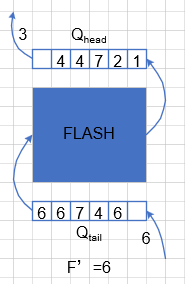
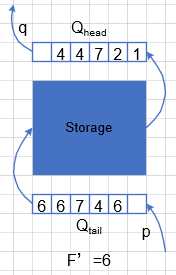
update doc

Changed region(s): [[0.0, 0.0, 1.0, 1.0], [0.3409, 0.4364, 0.6534, 0.4945]]

diff --git a/doc/lsmtree.md b/doc/lsmtree.md
@@ -46,7 +46,7 @@ major contribution：
 
 ## 内存：二级缓存替换MemTable，多Immutable MemTable
 
-![MemoryStructrue](D:/Program/LSMTREE/doc/pic/memorystructure.png)
+![MemoryStructrue](/pic/memorystructure.png)
 
 【图2：内存存储结构】**【图待修改】**
 
@@ -76,34 +76,42 @@ $$
 
 ## 外存：数据上浮，替换Filter
 
-### 挑战
+### 需要解决的问题
 
-1. 哪些数据要上浮？
+1. 哪些数据需要上浮？
 2. 数据如何上浮？
 
 ### 哪些数据要上浮？
 
-在基于LSM-tree结构的数据结构中，数据从低层到高层是按照新鲜度依次递减的。从访问时间来看，相比于低层的SSTable，查找高层的SSTable会消耗更多的时间，所以我们认为数据还应该从低层到高层同时满足访问频率依次递增，满足此条件我们才认为此时的LSM-tree是平衡的。当高层的SSTable的访问频率越来越高时，我们可以认为当前的树处于一个失衡的状态，需要调整树以达到平衡状态。
+在LSM-tree中，数据从高层到低层是按照新鲜度依次递减的。从访问时间来看，相比于高层的SSTable，查找低层的SSTable会消耗更多的时间，所以我们认为数据分布不仅仅需要考虑数据的新鲜度，同时还需要考虑数据的访问频率。当低层的某个SSTable的访问频率越来越高时，这个SSTable应该通过适当的调整，上浮到高层。
 
-我们对每个文件维护最近$F$次访问中的访问次数$f$，第$i$层的第$j$个SSTable的最近$F$次访问中的访问次数为$f_{i,j}$。我们认为若满足
+为了解决这一问题，我们对每个SSTable文件维护最近$F$次访问中的访问次数$f$，第$i$层的第$j$个SSTable的最近$F$次访问中的访问次数为$f_{i,j}$，若满足
 $$
 f_{i,j}\ge min(f_{i-1,k})  \times \beta\quad (2)
 $$
-其中$f_{i-1,k}$为第$i-1$层的第$k$个SSTable的最近$F$次访问中的访问次数，$\beta$为参数，那么认为这个文件需要进行上浮操作。
+其中$f_{i-1,k}$为第$i-1$层的第$k$个SSTable的最近$F$次访问中的访问次数，$\beta$为常数，那么认为这个SSTable文件需要进行上浮操作。
 
-每次更新文件访问次数时，就检查当前访问的文件是否需要上浮。若需要上浮，则类似Compaction操作，进行后台操作。若已有文件正在进行上浮，则当前上浮的文件需要等待之前的文件上浮完成后，再进行上浮操作。
+每次更新文件访问次数时，就检查当前访问的文件是否需要上浮。为了避免频繁上浮，通过设定常数$\beta$来控制上浮的频率。若已有文件正在进行上浮，则当前上浮的文件需要等待之前的文件上浮完成后，再进行上浮操作。
 
 #### 维护每个文件最近访问次数
 
 对于每个文件都记录最近$F$次的访问次数$f$。
 
-对于较小的$F$，用一个FIFO队列来维护最近的$F$次访问的文件序号。当从队列中弹出一个文件序号$p$时，将对应文件序号的文件的访问次数减一；当加入一个文件序号$p$时，将对应文件序号的文件的访问次数加一。
+对于较小的$F$，用一个FIFO队列来维护最近的$F$次访问的文件序号。当从队列中弹出一个文件序号$q$时，将文件序号为$q$的文件的访问次数减一；当加入一个文件序号$p$时，将文件序号为$p$的文件的访问次数加一。
 
 ![filefrequency](./pic/filefrequency.png)
 
-【图3：较大$F$时，文件最近访问频率记录图】
+【图3：较大$F$时，文件最近访问频率记录图】**【图待修改】**
 
-对于较大的$F$，将最近的$F$次访问中间部分的文件序号存储在外存，仅仅在内存维护2个最大大小为$F^{'}$的FIFO队列，一个是存储最近的$F$次访问头部的文件序号的队列$Q_{head}$，另一个是存储最近的$F$次访问尾部的文件序号的队列$Q_{tail}$。当需要删除一个文件序号$p$时，从$Q_{head}$弹出这个文件序号，将对应文件序号的文件的访问次数减一；当需要添加一个文件序号$p$时，加入$Q_{tail}$，将对应文件序号的文件的访问次数加一。当$Q_{head}$为空时，将$Q_{tail}$写入外存，清空队列$Q_{tail}$；再从外存中读入前$F^{'}$个文件序号，依次加入$Q_{head}$。
+对于较大的$F$，将最近的$F$次访问中间部分的文件序号存储在外存，仅仅在内存维护2个最大大小为$F^{'}$的FIFO队列，一个是存储最近的$F$次访问头部的文件序号的队列$Q_{head}$，另一个是存储最近的$F$次访问尾部的文件序号的队列$Q_{tail}$。初始先往$Q_{head}$中添加文件序号，其次再往$Q_{tail}$中添加。当$Q_{tail}$满了以后，若维护的总文件序号数未达到$F$，则将$Q_{tail}$中的所有文件序号按次序存储外部存储设备，清空$Q_{tail}$，直到总文件序号数达到$F$为止，如图三所示。
+
+当已经维护了$F$个最近访问的文件序号时，删除一个文件序号$q$，从$Q_{head}$弹出这个文件序号，将文件序号为$q$的文件的访问次数减一；添加一个文件序号$p$，将其加入$Q_{tail}$，将文件序号为$p$的文件的访问次数加一。当$Q_{head}$为空时，将$Q_{tail}$写入外存，清空队列$Q_{tail}$；再从外存中读入前$F^{'}$个文件序号，依次加入$Q_{head}$。
+
+**Algorithm 3 维护最近$F$次访问频率**
+
+![algo3](pic/algo3.png)
+
+算法3.3 展示了如何维护最近$F$次访问的文件序号。若$F$较小，则等价于将所有的文件序号放在一个FIFO中。若$F$较大，则在内存中维护2个FIFO，分别表示原来的一个FIFO的头部和尾部。删除数据时从头部FIFO$visit\_[0]$头部删除，添加数据时从尾部FIFO$visit\_[1]$尾部添加。
 
 ### 数据如何上浮？
 
